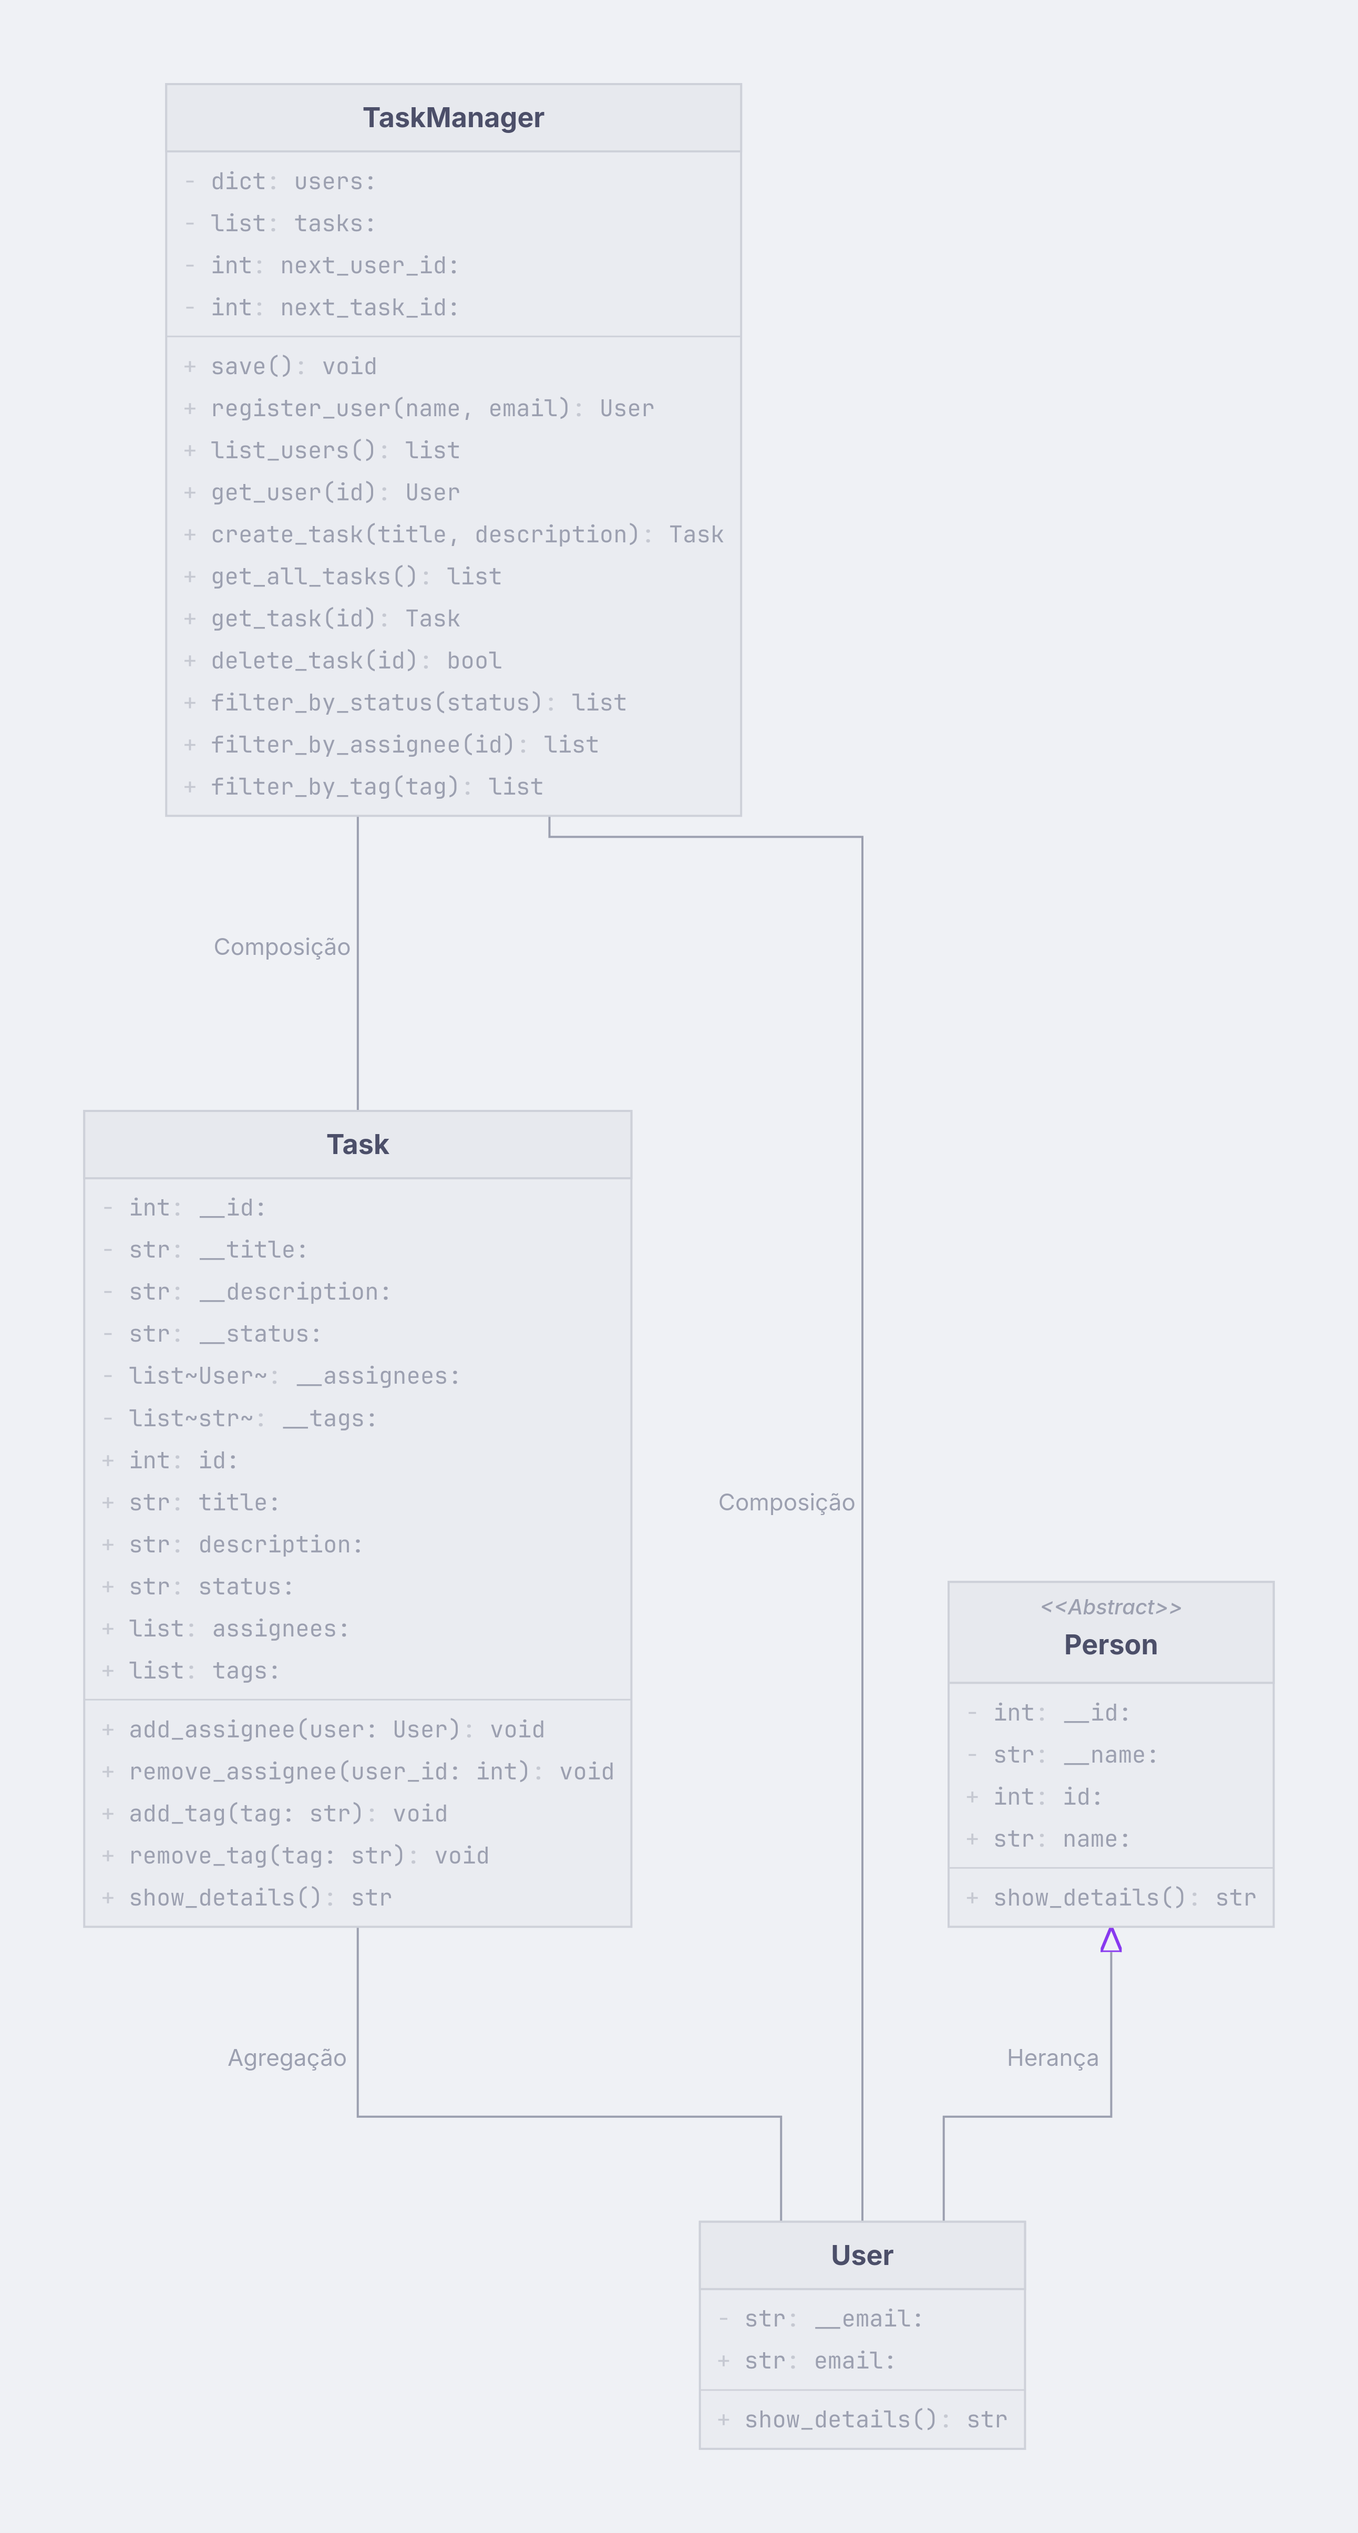
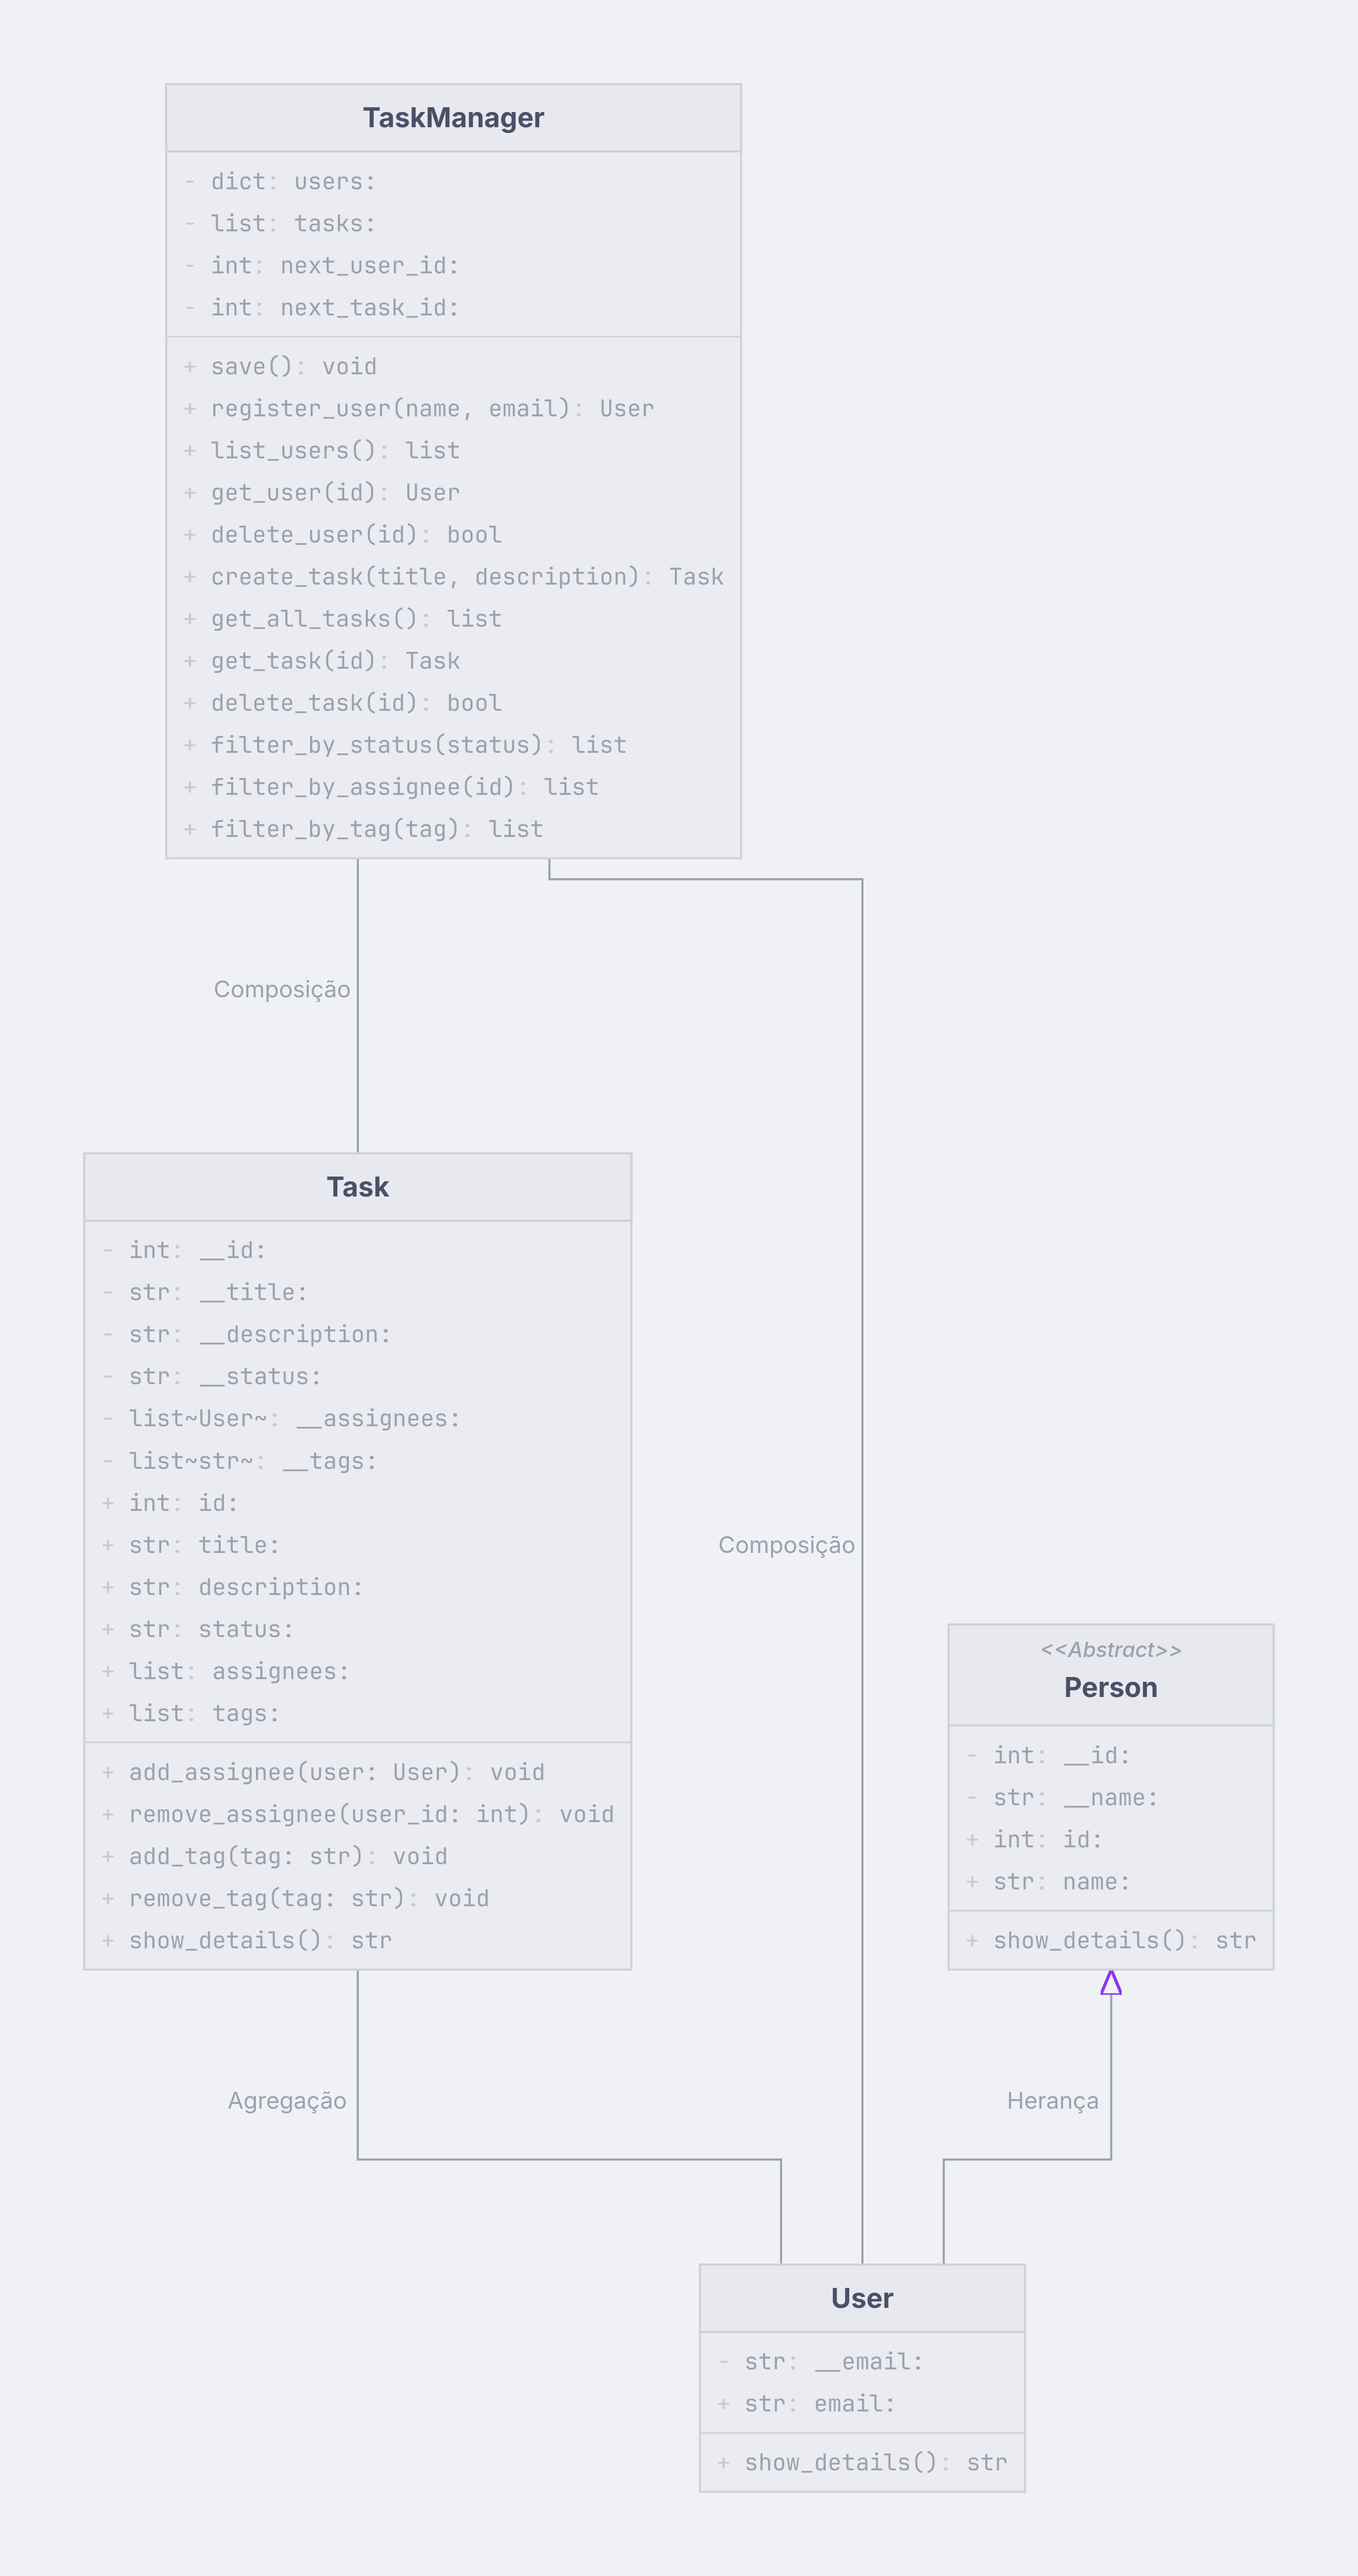
update code

diff --git a/main.py b/main.py
@@ -6,11 +6,12 @@ def show_menu():
     print("="*30)
     print("1. Cadastrar Usuário")
     print("2. Listar Usuários")
-    print("3. Criar Tarefa")
-    print("4. Listar Todas as Tarefas")
-    print("5. Detalhes/Alterar Tarefa")
-    print("6. Excluir Tarefa")
-    print("7. Filtrar Tarefas")
+    print("3. Excluir Usuário")
+    print("4. Criar Tarefa")
+    print("5. Listar Todas as Tarefas")
+    print("6. Detalhes/Alterar Tarefa")
+    print("7. Excluir Tarefa")
+    print("8. Filtrar Tarefas")
     print("0. Sair")
     print("="*30)
 
@@ -105,6 +106,17 @@ def delete_task_show(manager):
     except ValueError:
         print("ID inválido.")
 
+def delete_user_show(manager):
+    try:
+        user_id = int(input("Digite o ID do usuário a ser excluído: "))
+        if manager.delete_user(user_id):
+            manager.save()
+            print("Usuário excluído com sucesso!")
+        else:
+            print("Usuário não encontrado.")
+    except ValueError:
+        print("ID inválido.")
+
 def filter_tasks_show(manager):
     print("\nFiltrar por:")
     print("1. Status")
@@ -149,14 +161,16 @@ def main():
         elif option == "2":
             list_users_show(manager)
         elif option == "3":
-            create_task_show(manager)
+            delete_user_show(manager)
         elif option == "4":
-            list_tasks_show(manager)
+            create_task_show(manager)
         elif option == "5":
-            update_task_show(manager)
+            list_tasks_show(manager)
         elif option == "6":
-            delete_task_show(manager)
+            update_task_show(manager)
         elif option == "7":
+            delete_task_show(manager)
+        elif option == "8":
             filter_tasks_show(manager)
         else:
             print("Opção inválida!")

diff --git a/manager.py b/manager.py
@@ -24,6 +24,16 @@ class TaskManager:
     def get_user(self, user_id: int) -> User:
         return self.users.get(user_id)
 
+    def delete_user(self, user_id: int) -> bool:
+        user = self.get_user(user_id)
+        if user:
+            # Remove o usuário de todas as tarefas onde ele está alocado
+            for task in self.tasks:
+                task.remove_assignee(user_id)
+            del self.users[user_id]
+            return True
+        return False
+
     # Tasks CRUD
     def create_task(self, title: str, description: str) -> Task:
         new_task = Task(self.next_task_id, title, description)

diff --git a/diagrama_classes.md b/diagrama_classes.md
@@ -45,6 +45,7 @@ classDiagram
         + register_user(name, email) User
         + list_users() list
         + get_user(id) User
+        + delete_user(id) bool
         + create_task(title, description) Task
         + get_all_tasks() list
         + get_task(id) Task
